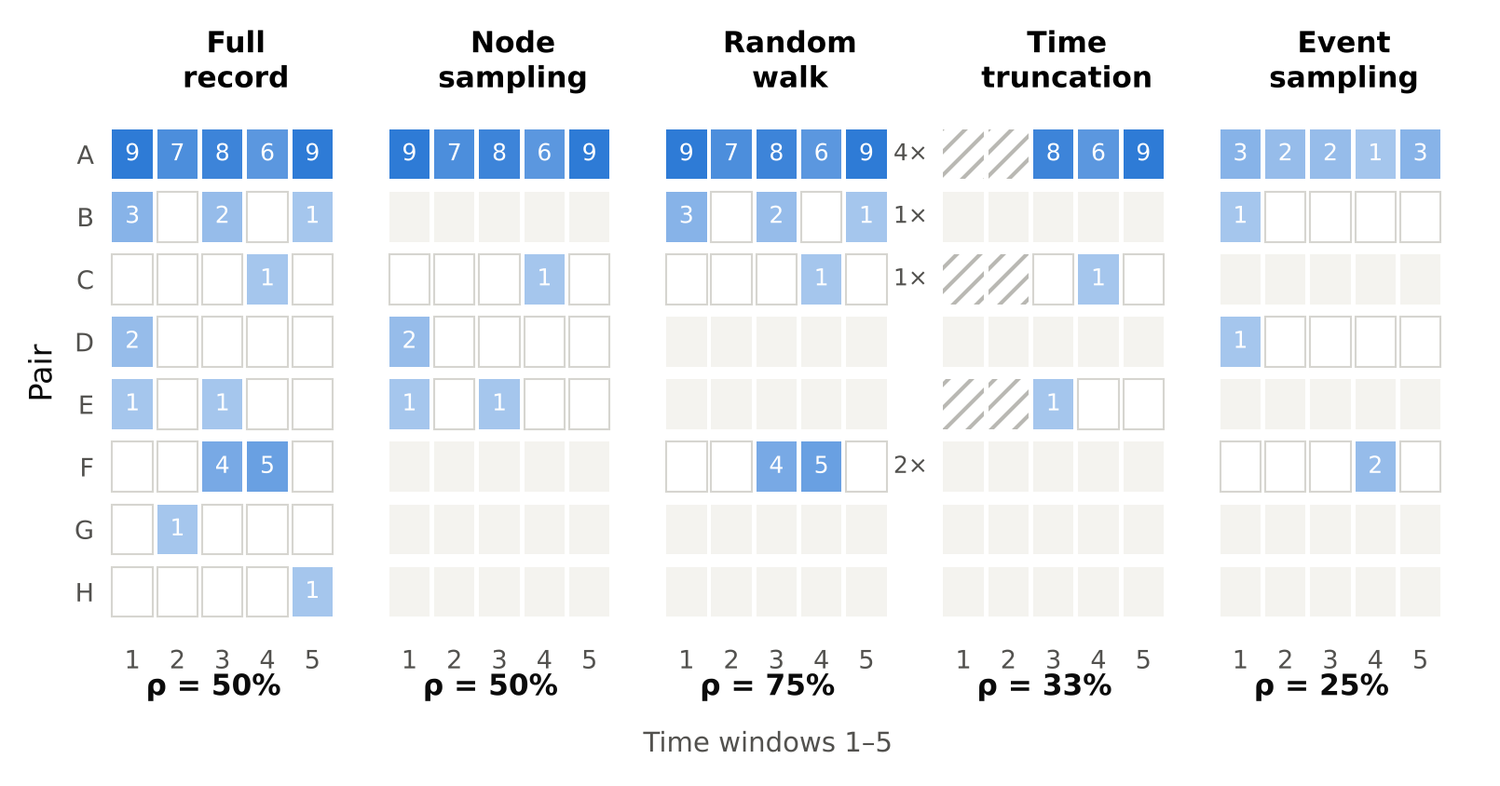
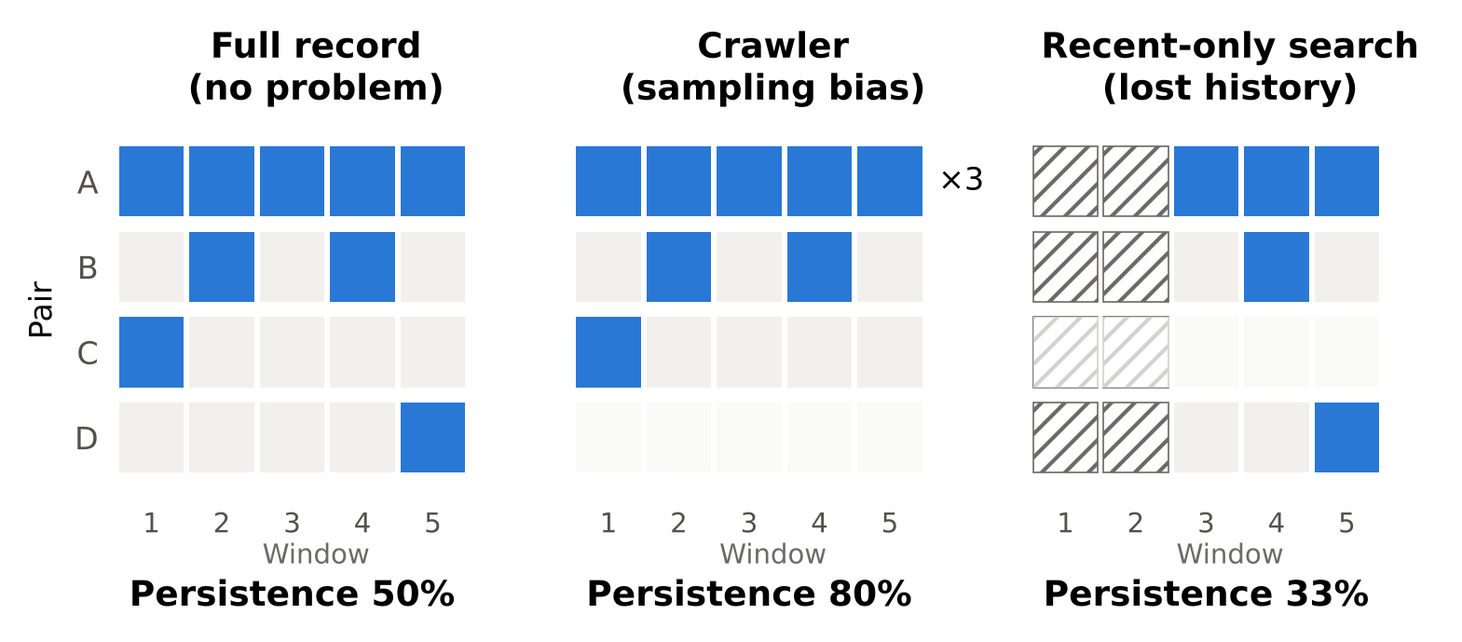
Simpler Figure 1.1, tables follow the revised thesis
- Figure 1.1: full record, crawler and recent-only search on four pairs
- Table 5.1 without the separate online block, Table 5.2 without the
  textbook correction as a row (it is a yardstick, not a method)
- checks follow the new section numbers (79 numbers, all matching)

Claude-Session: https://claude.ai/code/session_01KHKKgA5VD8ZA5rjtjfGLLN

diff --git a/scripts/thesis.py b/scripts/thesis.py
@@ -192,8 +192,7 @@ def table_results(real):
     m, s = mae(real), spread(real)
     mo, so = mae(real, ONLINE), spread(real, ONLINE)
     no_train = [k for k in MAIN if k != 'learned_reference']
-    rows = [['## Twelve networks']]+block(m, s, MAIN, no_train)
-    rows += [['## Four online platforms']]+block(mo, so, MAIN, no_train)
+    rows = block(m, s, MAIN, no_train)
     write_table('results', ['Method']+[SAMPLER_EN[a] for a in SAMPLERS], rows)
     return m, s, mo, so
 
@@ -205,7 +204,6 @@ def table_walk(real, design):
     tb_abs = (100*(tb.est-tb.truth_2)).abs().groupby(tb.network).mean().mean()
     tb_sign = (100*(tb.est-tb.truth_2)).groupby(tb.network).mean().mean()
     rows = [[NAME_EN['observed'], en(m['observed', 'walk']), en(sg['observed', 'walk'], sign=True), '–'],
-            ['Textbook correction', en(tb_abs), en(tb_sign, sign=True), '–'],
             [NAME_EN['statistical_model'], en(m['statistical_model', 'walk']), en(sg['statistical_model', 'walk'], sign=True), '–']]
     for k in ['gpt_6_sol', 'gpt_6_sol_python', 'gpt_6_sol_no_walk_log', 'deepseek_v4_1_flash', 'qwen3_6']:
         n, total = matches(walk, k, design)
@@ -325,9 +323,9 @@ def main():
           f'{hours.min():.0f} Stunden, {months.max():.0f} Monate', hours.idxmin() == 'sp_hospital' and months.idxmax() == 'lkml_reply'
           and round(hours.min()) == 19 and round(months.max()) == 19)
     w = ws[ws.W.between(3, 20) & (ws.W != 5)]
-    check('3.2, 5.7', 'with 3 to 20 windows: largest mean change of persistence (pp)', 'höchstens 6',
+    check('3.2, 5.6', 'with 3 to 20 windows: largest mean change of persistence (pp)', 'höchstens 6',
           de(100*w.mean_absolute_change_vs_W5.max()), round(100*w.mean_absolute_change_vs_W5.max()) <= 6)
-    check('5.7', 'with 3 to 20 windows: smallest rank correlation with W = 5', 'mindestens 0,97',
+    check('5.6', 'with 3 to 20 windows: smallest rank correlation with W = 5', 'mindestens 0,97',
           de(w.spearman_vs_W5.min(), 3), w.spearman_vs_W5.min() >= .97)
     # Section 3.3
     smp = pd.read_csv(DATA/'sample_properties.csv')
@@ -348,26 +346,26 @@ def main():
     o = parse(hospital[0]['block'])
     persistent = sum(r[1] for r in o['table'] if r[0].count('1') >= 2)
     rows = {r[0]: (r[1], r[2]) for r in o['table']}
-    check('Table 3.3', 'hospital sample: nodes, pairs, interactions, per window', '24, 132, 3,172, 371/1,183/792/571/255',
-          f"{o['n_panel']}, {o['D_obs']}, {thousands_en(o['M_obs'])}, {'/'.join(thousands_en(x) for x in o['Events_per_window'])}")
-    check('Table 3.3', 'rows 00001, 01000, 01110, 11100 (pairs/interactions)', '12/86, 24/436, 5/283, 4/490',
-          ', '.join(f'{rows[p][0]}/{rows[p][1]}' for p in ('00001', '01000', '01110', '11100')))
-    check('Table 3.3', 'persistent pairs, observed persistence, truth', '56 of the 132, 42%, 45%',
-          f"{persistent} of the {o['D_obs']}, {100*persistent/o['D_obs']:.0f}%, {100*nr.rho_2['sp_hospital']:.0f}%")
+    check('3.5', 'hospital sample: nodes, pairs, interactions, per window', '24, 132, 3.172, 371,1183,792,571,255',
+          f"{o['n_panel']}, {o['D_obs']}, {thousands(o['M_obs'])}, {','.join(str(x) for x in o['Events_per_window'])}")
+    check('3.5', 'rows 00001, 00010, 01110, 11100 (pairs,interactions)', '12,86, 7,75, 5,283, 4,490',
+          ', '.join(f'{rows[p][0]},{rows[p][1]}' for p in ('00001', '00010', '01110', '11100')))
+    check('3.5', 'persistent pairs, observed persistence, truth', '56 von 132, 42 %, 45 %',
+          f"{persistent} von {o['D_obs']}, {100*persistent/o['D_obs']:.0f} %, {100*nr.rho_2['sp_hospital']:.0f} %")
     # Section 4.4 to 4.6
-    check('4.4', 'estimates in the study, invalid answers', '4.536, 2', f'{thousands(len(pred))}, {int((~pred.valid).sum())}')
-    check('4.4', 'samplers of the invalid answers', 'beide beim Zufallsweg',
+    check('4.3', 'estimates in the study, invalid answers', '4.536, 2', f'{thousands(len(pred))}, {int((~pred.valid).sum())}')
+    check('4.3', 'samplers of the invalid answers', 'beide beim Zufallsweg',
           'beide beim Zufallsweg' if set(pred[~pred.valid].sampler) == {'walk'} else 'nein')
     from study.common import REAL  # noqa: E402
-    check('4.5', 'real training networks, of them test networks', '16, neun', f"{len(TRAIN)}, {'neun' if len(set(TRAIN) & set(REAL)) == 9 else len(set(TRAIN) & set(REAL))}")
-    check('4.5', 'training samples per sampler of the learned reference', 'etwa 2.000',
+    check('4.4', 'real training networks, of them test networks', '16, neun', f"{len(TRAIN)}, {'neun' if len(set(TRAIN) & set(REAL)) == 9 else len(set(TRAIN) & set(REAL))}")
+    check('4.4', 'training samples per sampler of the learned reference', 'etwa 2.000',
           thousands((len(TRAIN)+400)*TRAIN_DRAWS), abs((len(TRAIN)+400)*TRAIN_DRAWS-2000) < 200)
     se = per_network(real).groupby(['method', 'sampler']).std(ddof=1)/math.sqrt(12)
     se = se[se.index.get_level_values('method').isin(MAIN)]
-    check('4.6', 'largest standard error of a mean error over networks (pp)', 'bis zu 4', de(se.max()), se.max() <= 4.05)
+    check('4.5', 'largest standard error of a mean error over networks (pp)', 'bis zu 4', de(se.max()), se.max() <= 4.05)
 
     # Section 5.1
-    check('5.1, 5.8', 'mean signed error of the observed persistence: node, walk, truncation, event (pp)',
+    check('5.1, 5.7', 'mean signed error of the observed persistence: node, walk, truncation, event (pp)',
           '−0,9, +28,4, −5,3, −16,4', ', '.join(de(sg['observed', a], sign=True) for a in SAMPLERS))
     walk_obs = per_network(real, 'err')['observed', 'walk']
     check('5.1', 'random walk: networks where the observed persistence is too high by more than 5 pp', '10 von 12',
@@ -419,7 +417,7 @@ def main():
     nolog = m['gpt_6_sol_no_walk_log', 'walk']
     check('5.3', 'random walk without the walk log: GPT-6 Sol (pp)', '10,7', de(nolog))
     gain = (obs['walk']-nolog)/(obs['walk']-m['gpt_6_sol', 'walk'])
-    check('5.3, 5.8', 'share of the gain that needs only the description of the walk', '90 %', f'{100*gain:.0f} %')
+    check('5.3, 5.7', 'share of the gain that needs only the description of the walk', '90 %', f'{100*gain:.0f} %')
     # the statistical model without the walk's log: unweighted, and with weights a person built from the table alone
     # (each pattern weighted by dyads^2 / events, the inverse of its mean events per pair, times its dyads)
     rows = []
@@ -471,23 +469,16 @@ def main():
     lk = per_network(real, 'err').loc['statistical_model', :, 'lkml_reply']
     check('5.5', 'statistical model overshoots on the Linux mailing list (pp, sampler)', '11 (Zeitschnitt)',
           f'{lk.max():.0f} ({SAMPLER[lk.idxmax()]})')
-    check('5.5', 'online, random walk: GPT-6 Sol vs. statistical model (pp)', '2,9 gegenüber 3,1',
-          f'{de(mo["gpt_6_sol", "walk"])} gegenüber {de(mo["statistical_model", "walk"])}')
     lower = all(mo['gpt_6_sol', a] < mo['statistical_model', a] for a in SAMPLERS)
-    check('5.5', 'online: GPT-6 Sol errs less than the model under every sampler (mean over platforms)', 'ja', 'ja' if lower else 'nein')
     on = list(ONLINE)
     combos = sum(int((pn['gpt_6_sol', a][on] < pn['statistical_model', a][on]).sum()) for a in SAMPLERS)
     check('5.5', 'online: platform-sampler combinations where GPT-6 Sol errs less than the model', '12 von 16', f'{combos} von 16')
     diff = sorted(pn['gpt_6_sol', a][n]-pn['statistical_model', a][n] for a in SAMPLERS for n in on
                   if not pn['gpt_6_sol', a][n] < pn['statistical_model', a][n])
-    check('5.5', 'online: of the other four combinations, near ties (largest difference, pp)', 'drei, höchstens 0,3',
-          f'{sum(d <= .3 for d in diff)}, höchstens {de(max(d for d in diff if d <= .3))}', sum(d <= .3 for d in diff) == 3)
     gaps = {k: max(mo[k, a]-min(mo[x, a] for x in MAIN) for a in SAMPLERS) for k in MAIN}
     arg = {k: max(SAMPLERS, key=lambda a: mo[k, a]-min(mo[x, a] for x in MAIN)) for k in MAIN}
-    check('5.5, Abstract', 'online: largest gap of GPT-6 Sol to the best method under any sampler (pp)', 'höchstens 0,7',
+    check('5.5', 'online: largest gap of GPT-6 Sol to the best method under any sampler (pp)', 'höchstens 0,7',
           de(gaps['gpt_6_sol']), gaps['gpt_6_sol'] <= .75)
-    check('5.5', 'online: largest gap of the others (pp, sampler)', '10,7 (Zufallsweg), 5,5 (Zeitschnitt), 4,1 (Ereignisstichprobe)',
-          ', '.join(f'{de(gaps[k])} ({SAMPLER[arg[k]]})' for k in ('observed', 'statistical_model', 'learned_reference')))
     check('5.5', 'online: every method other than GPT-6 Sol misses the best by at least 4 pp under some sampler', 'ja',
           'ja' if all(gaps[k] >= 4 for k in MAIN if k != 'gpt_6_sol') else 'nein')
     # Section 5.6
@@ -506,20 +497,20 @@ def main():
                 x = smp2.loc[sh].xs(a, level='sampler')[col].reindex(med[sh].index)
                 if x.notna().sum() >= 12 and x.nunique() >= 3: props.add(col)
     props |= {'observed_bias_signed', 'observed_bias_abs'}
-    check('5.6', 'properties tested', '99', str(len(props)))
+    check('5.5', 'properties tested', '99', str(len(props)))
     for a, prop, text in (('walk', 'events_per_pair', '+0,77'), ('truncation', 'abs_early_late_mismatch_2', '+0,78'),
                           ('event', 'rho2', '+0,85')):
         x, y = net.loc[0][prop].reindex(med[0].index), med[0][a]
         r = spearman(x, y)
         loo = min(abs(spearman(x.drop(n), y.drop(n))) for n in x.index)
-        check('5.6', f'{SAMPLER[a]}: Spearman of the median error with {prop}', text, de(r, 2, sign=True))
-        check('5.6', f'{SAMPLER[a]}: smallest |r| when one network is left out', 'über 0,7', de(loo, 2), loo > .695)
+        check('5.5', f'{SAMPLER[a]}: Spearman of the median error with {prop}', text, de(r, 2, sign=True))
+        check('5.5', f'{SAMPLER[a]}: smallest |r| when one network is left out', 'über 0,7', de(loo, 2), loo > .695)
     cm = pn.loc['statistical_model', :, 'snap_collegemsg']
-    check('5.6', 'CollegeMsg, statistical model: node, walk, event below 1 pp; truncation (pp)', 'unter 1; 11,0',
+    check('5.5', 'CollegeMsg, statistical model: node, walk, event below 1 pp; truncation (pp)', 'unter 1; 11,0',
           f'{de(max(cm[a] for a in ("node", "walk", "event")))}; {de(cm["truncation"])}',
           max(cm[a] for a in ('node', 'walk', 'event')) < 1 and de(cm['truncation']) == '11,0')
     # Section 5.7
-    check('5.7', 'time-shuffled copies: signed error of the observed persistence under event sampling (pp)', '−32,5',
+    check('5.6', 'time-shuffled copies: signed error of the observed persistence under event sampling (pp)', '−32,5',
           de(sg_s['observed', 'event'], sign=True))
     th = {}
     for a in ('walk', 'truncation', 'event'):
@@ -528,9 +519,9 @@ def main():
             th[k, a] = [sub.assign(x=sub[f'err_{j}'].abs()).groupby('network').x.mean().mean() for j in (3, 4, 5)]
     ok = all(th['gpt_6_sol', a][i] <= th['statistical_model', a][i]+.25 for a in ('walk', 'truncation') for i in range(3)) and \
         all(th['gpt_6_sol', 'event'][i] > th['statistical_model', 'event'][i] for i in range(3))
-    check('5.7', 'stricter thresholds: GPT-6 Sol level with or ahead of the model (walk, truncation), behind under event sampling',
+    check('5.6', 'stricter thresholds: GPT-6 Sol level with or ahead of the model (walk, truncation), behind under event sampling',
           'ja', 'ja' if ok else 'nein')
-    check('5.7', 'with 2 windows: mean change (pp), rank correlation', '10,4, 0,88',
+    check('5.6', 'with 2 windows: mean change (pp), rank correlation', '10,4, 0,88',
           f'{de(100*ws[ws.W == 2].mean_absolute_change_vs_W5.iloc[0])}, {de(ws[ws.W == 2].spearman_vs_W5.iloc[0], 2)}')
 
     lines = ['# The numbers of the thesis', '',

diff --git a/scripts/figures.py b/scripts/figures.py
@@ -24,6 +24,7 @@ from study.sample import parse  # noqa: E402
 
 OUT = ROOT/'thesis/figures'
 CM = 1/2.54
+GRAY = '#6b6a66'
 INK, MUTED, GRID = '#0b0b0b', '#52514e', '#e4e3de'
 COLOR = {'observed': '#6b6a66', 'statistical_model': '#2a78d6', 'gpt_6_sol': '#eb6834',
          'learned_reference': '#1baf7a', 'deepseek_v4_1_flash': '#6250d6', 'qwen3_6': '#e87ba4'}
@@ -60,65 +61,48 @@ def save(fig, name):
     plt.close(fig)
 
 
-# ---------------------------------------------------------------- Figure 1.1: toy example of the four samplers
-TOY = {'A': [9, 7, 8, 6, 9], 'B': [3, 0, 2, 0, 1], 'C': [0, 0, 0, 1, 0], 'D': [2, 0, 0, 0, 0],
-       'E': [1, 0, 1, 0, 0], 'F': [0, 0, 4, 5, 0], 'G': [0, 1, 0, 0, 0], 'H': [0, 0, 0, 0, 1]}
-NODE_PAIRS = ('A', 'C', 'D', 'E')                      # the pairs among the randomly drawn users
-WALK = {'A': 4, 'B': 1, 'C': 1, 'F': 2}                # how often the walk passed each pair
-EVENT = {'A': [3, 2, 2, 1, 3], 'B': [1, 0, 0, 0, 0], 'D': [1, 0, 0, 0, 0], 'F': [0, 0, 0, 2, 0]}
-
-
-def toy_panels():
-    full = {k: v for k, v in TOY.items()}
-    node = {k: (TOY[k] if k in NODE_PAIRS else None) for k in TOY}
-    walk = {k: (TOY[k] if k in WALK else None) for k in TOY}
-    trunc = {}
-    for k in TOY:
-        if k in NODE_PAIRS and sum(TOY[k][2:]) > 0: trunc[k] = [None, None]+TOY[k][2:]
-        else: trunc[k] = None
-    event = {k: EVENT.get(k) for k in TOY}
-    return [('Full\nrecord', full), ('Node\nsampling', node), ('Random\nwalk', walk),
-            ('Time\ntruncation', trunc), ('Event\nsampling', event)]
-
-
-def persistence(panel):
-    seen = [v for v in panel.values() if v is not None]
-    return sum(sum(1 for x in v if x) >= 2 for v in seen)/len(seen)
+# ---------------------------------------------------------------- Figure 1.1: the two problems on a toy example
+TOY = {'A': [1, 1, 1, 1, 1], 'B': [0, 1, 0, 1, 0], 'C': [1, 0, 0, 0, 0], 'D': [0, 0, 0, 0, 1]}   # active windows
 
 
 def figure_samplers():
-    panels = toy_panels()
-    fig, axes = plt.subplots(1, 5, figsize=(16*CM, 6.2*CM), sharey=True)
-    blue = '#2a78d6'
-    for ax, (title, panel) in zip(axes, panels):
-        for i, k in enumerate(TOY):
-            y = len(TOY)-1-i
-            row = panel[k]
+    """Full record, a crawler that meets busy pair A three times, and a search that reaches back three windows."""
+    panels = [('Full record\n(no problem)', {k: (v, 1) for k, v in TOY.items()}, set()),
+              ('Crawler\n(sampling bias)', {'A': (TOY['A'], 3), 'B': (TOY['B'], 1), 'C': (TOY['C'], 1)}, set()),
+              ('Recent-only search\n(lost history)', {k: (v, 1) for k, v in TOY.items()}, {0, 1})]
+    fig, axes = plt.subplots(1, 3, figsize=(15.5*CM, 6.2*CM), sharey=True)
+    for ax, (title, seen, hidden) in zip(axes, panels):
+        n_seen = n_pers = 0
+        for r, pair in enumerate(TOY):
+            y = len(TOY)-1-r
             for w in range(5):
-                if row is None:
-                    ax.add_patch(Rectangle((w, y), .9, .8, fc='#f4f3ef', ec='none'))
+                if w in hidden:
+                    ax.add_patch(plt.Rectangle((w, y), 0.92, 0.82, facecolor='white', edgecolor=GRAY, hatch='////', lw=0.4))
                     continue
-                x = row[w]
-                if x is None:
-                    ax.add_patch(Rectangle((w, y), .9, .8, fc='white', ec='#b9b8b3', hatch='////', lw=0))
-                elif x > 0:
-                    shade = min(1, .35+.07*x)
-                    ax.add_patch(Rectangle((w, y), .9, .8, fc=blue, alpha=shade, ec='none'))
-                    ax.text(w+.45, y+.4, str(x), ha='center', va='center', fontsize=6, color='white')
+                on = pair in seen and seen[pair][0][w]
+                ax.add_patch(plt.Rectangle((w, y), 0.92, 0.82, facecolor=COLOR['statistical_model'] if on else '#f1f0ec',
+                                           edgecolor='none'))
+            if pair in seen:
+                active = sum(a for k, a in enumerate(seen[pair][0]) if k not in hidden)
+                if active:
+                    times = seen[pair][1]
+                    n_seen += times
+                    n_pers += times*(active >= 2)
+                    if times > 1: ax.text(5.15, y+0.41, f'×{times}', va='center', fontsize=8)
                 else:
-                    ax.add_patch(Rectangle((w, y), .9, .8, fc='white', ec='#d6d5d0', lw=.5))
-            if title.startswith('Random') and k in WALK:
-                ax.text(5.05, y+.4, f'{WALK[k]}×', va='center', fontsize=6, color=MUTED)
-        ax.set_xlim(-.1, 5.6); ax.set_ylim(-.3, len(TOY)+.1)
-        ax.set_xticks([w+.45 for w in range(5)]); ax.set_xticklabels([str(w+1) for w in range(5)], fontsize=6.5)
+                    ax.add_patch(plt.Rectangle((0, y), 4.92, 0.82, facecolor='white', alpha=0.7, edgecolor='none'))
+            else:
+                ax.add_patch(plt.Rectangle((0, y), 4.92, 0.82, facecolor='white', alpha=0.7, edgecolor='none'))
+        ax.set_xlim(-0.1, 5.7); ax.set_ylim(-0.3, len(TOY)+0.1)
+        ax.set_xticks([k+0.46 for k in range(5)], [str(k+1) for k in range(5)], fontsize=7)
+        ax.set_yticks([len(TOY)-1-r+0.41 for r in range(len(TOY))], list(TOY))
         ax.tick_params(length=0)
-        for s in ax.spines.values(): s.set_visible(False)
-        ax.set_title(title, fontsize=7.5)
-        ax.text(2.25, -1.25, f'ρ = {100*persistence(panel):.0f}%', ha='center', fontsize=7.5, color=INK, fontweight='bold')
-    axes[0].set_yticks([len(TOY)-1-i+.4 for i in range(len(TOY))]); axes[0].set_yticklabels(list(TOY), fontsize=6.5)
+        for side in ax.spines.values(): side.set_visible(False)
+        ax.set_title(title, fontsize=9)
+        ax.set_xlabel('Window', fontsize=7, color=GRAY, labelpad=1)
+        ax.text(2.46, -1.25, f'Persistence {100*n_pers/n_seen:.0f}%', ha='center', va='top', fontsize=9, weight='bold')
     axes[0].set_ylabel('Pair')
-    fig.text(.5, -.06, 'Time windows 1–5', ha='center', fontsize=7, color=MUTED)
-    fig.subplots_adjust(wspace=.08)
+    fig.subplots_adjust(bottom=0.28, top=0.83, wspace=0.12)
     save(fig, 'fig1_1_samplers.png')
 
 

diff --git a/thesis/numbers.md b/thesis/numbers.md
@@ -15,22 +15,22 @@ Written by `scripts/thesis.py` from `data/`. "Thesis" is the number as printed i
 | 3.1 | persistence of the online platforms | 0,3 % bis 15 % | 0,3 % bis 15 % | yes |
 | 3.1 | persistence of the other networks | 29 % und 61 % | 29 % und 61 % | yes |
 | 3.2 | shortest window: hospital (hours); longest: Linux mailing list (months) | 19 Stunden, 19 Monate | 19 Stunden, 19 Monate | yes |
-| 3.2, 5.7 | with 3 to 20 windows: largest mean change of persistence (pp) | höchstens 6 | 6,0 | yes |
-| 5.7 | with 3 to 20 windows: smallest rank correlation with W = 5 | mindestens 0,97 | 0,972 | yes |
+| 3.2, 5.6 | with 3 to 20 windows: largest mean change of persistence (pp) | höchstens 6 | 6,0 | yes |
+| 5.6 | with 3 to 20 windows: smallest rank correlation with W = 5 | mindestens 0,97 | 0,972 | yes |
 | 3.3 | share of the pairs' active windows each sampler sees | etwa 10 % | 10 % | yes |
 | 3.3 | share of all interactions seen, median over networks: walk, event sampling | 35 %, etwa 1 % | 35 %, etwa 1 % | yes |
 | 3.3 | samples of the twelve networks | 144 | 144 | yes |
 | 3.4 | mean persistence: networks, time-shuffled copies | 35 %, 61 % | 35 %, 61 % | yes |
 | 3.4 | samples in total | 288 | 288 | yes |
-| Table 3.3 | hospital sample: nodes, pairs, interactions, per window | 24, 132, 3,172, 371/1,183/792/571/255 | 24, 132, 3,172, 371/1,183/792/571/255 | yes |
-| Table 3.3 | rows 00001, 01000, 01110, 11100 (pairs/interactions) | 12/86, 24/436, 5/283, 4/490 | 12/86, 24/436, 5/283, 4/490 | yes |
-| Table 3.3 | persistent pairs, observed persistence, truth | 56 of the 132, 42%, 45% | 56 of the 132, 42%, 45% | yes |
-| 4.4 | estimates in the study, invalid answers | 4.536, 2 | 4.536, 2 | yes |
-| 4.4 | samplers of the invalid answers | beide beim Zufallsweg | beide beim Zufallsweg | yes |
-| 4.5 | real training networks, of them test networks | 16, neun | 16, neun | yes |
-| 4.5 | training samples per sampler of the learned reference | etwa 2.000 | 2.080 | yes |
-| 4.6 | largest standard error of a mean error over networks (pp) | bis zu 4 | 4,0 | yes |
-| 5.1, 5.8 | mean signed error of the observed persistence: node, walk, truncation, event (pp) | −0,9, +28,4, −5,3, −16,4 | −0,9, +28,4, −5,3, −16,4 | yes |
+| 3.5 | hospital sample: nodes, pairs, interactions, per window | 24, 132, 3.172, 371,1183,792,571,255 | 24, 132, 3.172, 371,1183,792,571,255 | yes |
+| 3.5 | rows 00001, 00010, 01110, 11100 (pairs,interactions) | 12,86, 7,75, 5,283, 4,490 | 12,86, 7,75, 5,283, 4,490 | yes |
+| 3.5 | persistent pairs, observed persistence, truth | 56 von 132, 42 %, 45 % | 56 von 132, 42 %, 45 % | yes |
+| 4.3 | estimates in the study, invalid answers | 4.536, 2 | 4.536, 2 | yes |
+| 4.3 | samplers of the invalid answers | beide beim Zufallsweg | beide beim Zufallsweg | yes |
+| 4.4 | real training networks, of them test networks | 16, neun | 16, neun | yes |
+| 4.4 | training samples per sampler of the learned reference | etwa 2.000 | 2.080 | yes |
+| 4.5 | largest standard error of a mean error over networks (pp) | bis zu 4 | 4,0 | yes |
+| 5.1, 5.7 | mean signed error of the observed persistence: node, walk, truncation, event (pp) | −0,9, +28,4, −5,3, −16,4 | −0,9, +28,4, −5,3, −16,4 | yes |
 | 5.1 | random walk: networks where the observed persistence is too high by more than 5 pp | 10 von 12 | 10 von 12 | yes |
 | 5.1, 6.2 | a crawl: Email EU looks this persistent (truth) | 92 % (51 %) | 92 % (51 %) | yes |
 | 5.1 | time truncation: persistent pairs that lose their return; pairs hidden entirely (mean) | 51 %, 40 % | 51 %, 40 % | yes |
@@ -52,7 +52,7 @@ Written by `scripts/thesis.py` from `data/`. "Thesis" is the number as printed i
 | 5.3 | Village: textbook correction, GPT-6 Sol answers, truth | 100 %, 74 bis 86 %, 51 % | 100 %, 74 bis 86 %, 51 % | yes |
 | 5.3 | GPT-6 Sol with Python, random walk (pp) | 8,1 | 8,1 | yes |
 | 5.3 | random walk without the walk log: GPT-6 Sol (pp) | 10,7 | 10,7 | yes |
-| 5.3, 5.8 | share of the gain that needs only the description of the walk | 90 % | 90 % | yes |
+| 5.3, 5.7 | share of the gain that needs only the description of the walk | 90 % | 90 % | yes |
 | 5.3 | random walk without the log: statistical model unweighted, with weights from the table alone (pp) | 29,9, 10,0 | 29,9, 10,0 | yes |
 | 5.3 | time-shuffled copies: GPT-6 Sol answers that match the textbook correction | 91 von 108 | 91 von 108 | yes |
 | 5.3 | time-shuffled copies: node sampling vs. best method under any other sampler (pp) | 1,6 gegenüber 4,3 | 1,6 gegenüber 4,3 | yes |
@@ -69,21 +69,17 @@ Written by `scripts/thesis.py` from `data/`. "Thesis" is the number as printed i
 | 5.4 | GPT-6 Sol, mean of its three answers: event, truncation (pp) | 8,2, 4,6 | 8,2, 4,6 | yes |
 | 5.4 | with Python: truncation, event (pp) | 6,1, 15,1 | 6,1, 15,1 | yes |
 | 5.5 | statistical model overshoots on the Linux mailing list (pp, sampler) | 11 (Zeitschnitt) | 11 (Zeitschnitt) | yes |
-| 5.5 | online, random walk: GPT-6 Sol vs. statistical model (pp) | 2,9 gegenüber 3,1 | 2,9 gegenüber 3,1 | yes |
-| 5.5 | online: GPT-6 Sol errs less than the model under every sampler (mean over platforms) | ja | ja | yes |
 | 5.5 | online: platform-sampler combinations where GPT-6 Sol errs less than the model | 12 von 16 | 12 von 16 | yes |
-| 5.5 | online: of the other four combinations, near ties (largest difference, pp) | drei, höchstens 0,3 | 3, höchstens 0,3 | yes |
-| 5.5, Abstract | online: largest gap of GPT-6 Sol to the best method under any sampler (pp) | höchstens 0,7 | 0,7 | yes |
-| 5.5 | online: largest gap of the others (pp, sampler) | 10,7 (Zufallsweg), 5,5 (Zeitschnitt), 4,1 (Ereignisstichprobe) | 10,7 (Zufallsweg), 5,5 (Zeitschnitt), 4,1 (Ereignisstichprobe) | yes |
+| 5.5 | online: largest gap of GPT-6 Sol to the best method under any sampler (pp) | höchstens 0,7 | 0,7 | yes |
 | 5.5 | online: every method other than GPT-6 Sol misses the best by at least 4 pp under some sampler | ja | ja | yes |
-| 5.6 | properties tested | 99 | 99 | yes |
-| 5.6 | Zufallsweg: Spearman of the median error with events_per_pair | +0,77 | +0,77 | yes |
-| 5.6 | Zufallsweg: smallest |r| when one network is left out | über 0,7 | 0,70 | yes |
-| 5.6 | Zeitschnitt: Spearman of the median error with abs_early_late_mismatch_2 | +0,78 | +0,78 | yes |
-| 5.6 | Zeitschnitt: smallest |r| when one network is left out | über 0,7 | 0,72 | yes |
-| 5.6 | Ereignisstichprobe: Spearman of the median error with rho2 | +0,85 | +0,85 | yes |
-| 5.6 | Ereignisstichprobe: smallest |r| when one network is left out | über 0,7 | 0,80 | yes |
-| 5.6 | CollegeMsg, statistical model: node, walk, event below 1 pp; truncation (pp) | unter 1; 11,0 | 0,8; 11,0 | yes |
-| 5.7 | time-shuffled copies: signed error of the observed persistence under event sampling (pp) | −32,5 | −32,5 | yes |
-| 5.7 | stricter thresholds: GPT-6 Sol level with or ahead of the model (walk, truncation), behind under event sampling | ja | ja | yes |
-| 5.7 | with 2 windows: mean change (pp), rank correlation | 10,4, 0,88 | 10,4, 0,88 | yes |
+| 5.5 | properties tested | 99 | 99 | yes |
+| 5.5 | Zufallsweg: Spearman of the median error with events_per_pair | +0,77 | +0,77 | yes |
+| 5.5 | Zufallsweg: smallest |r| when one network is left out | über 0,7 | 0,70 | yes |
+| 5.5 | Zeitschnitt: Spearman of the median error with abs_early_late_mismatch_2 | +0,78 | +0,78 | yes |
+| 5.5 | Zeitschnitt: smallest |r| when one network is left out | über 0,7 | 0,72 | yes |
+| 5.5 | Ereignisstichprobe: Spearman of the median error with rho2 | +0,85 | +0,85 | yes |
+| 5.5 | Ereignisstichprobe: smallest |r| when one network is left out | über 0,7 | 0,80 | yes |
+| 5.5 | CollegeMsg, statistical model: node, walk, event below 1 pp; truncation (pp) | unter 1; 11,0 | 0,8; 11,0 | yes |
+| 5.6 | time-shuffled copies: signed error of the observed persistence under event sampling (pp) | −32,5 | −32,5 | yes |
+| 5.6 | stricter thresholds: GPT-6 Sol level with or ahead of the model (walk, truncation), behind under event sampling | ja | ja | yes |
+| 5.6 | with 2 windows: mean change (pp), rank correlation | 10,4, 0,88 | 10,4, 0,88 | yes |

diff --git a/README.md b/README.md
@@ -25,13 +25,13 @@ python scripts/figures.py      # every figure of the thesis -> thesis/figures/
 python -m pytest -q            # quick checks (samples, prompts, estimators, all numbers)
 ```
 
-`thesis/numbers.md` lists each number of the thesis next to the value recomputed from `data/` (83 numbers,
+`thesis/numbers.md` lists each number of the thesis next to the value recomputed from `data/` (79 numbers,
 all matching). The script stops with an error if one differs.
 
 | In the thesis | File |
 |---|---|
 | Table 3.1 (networks) | `thesis/tables/networks.csv` |
-| Table 3.3 (the hospital sample), Appendix A (full prompt) | `data/samples/sp_hospital__R-...__s1.json` |
+| Section 3.5 (the hospital sample), Appendix A (full prompt) | `data/samples/sp_hospital__R-...__s1.json` |
 | Table 5.1 (all methods) | `thesis/tables/results.csv` |
 | Table 5.2 (random walk) | `thesis/tables/walk.csv` |
 | Table 5.3 (lost history) | `thesis/tables/history.csv` |
